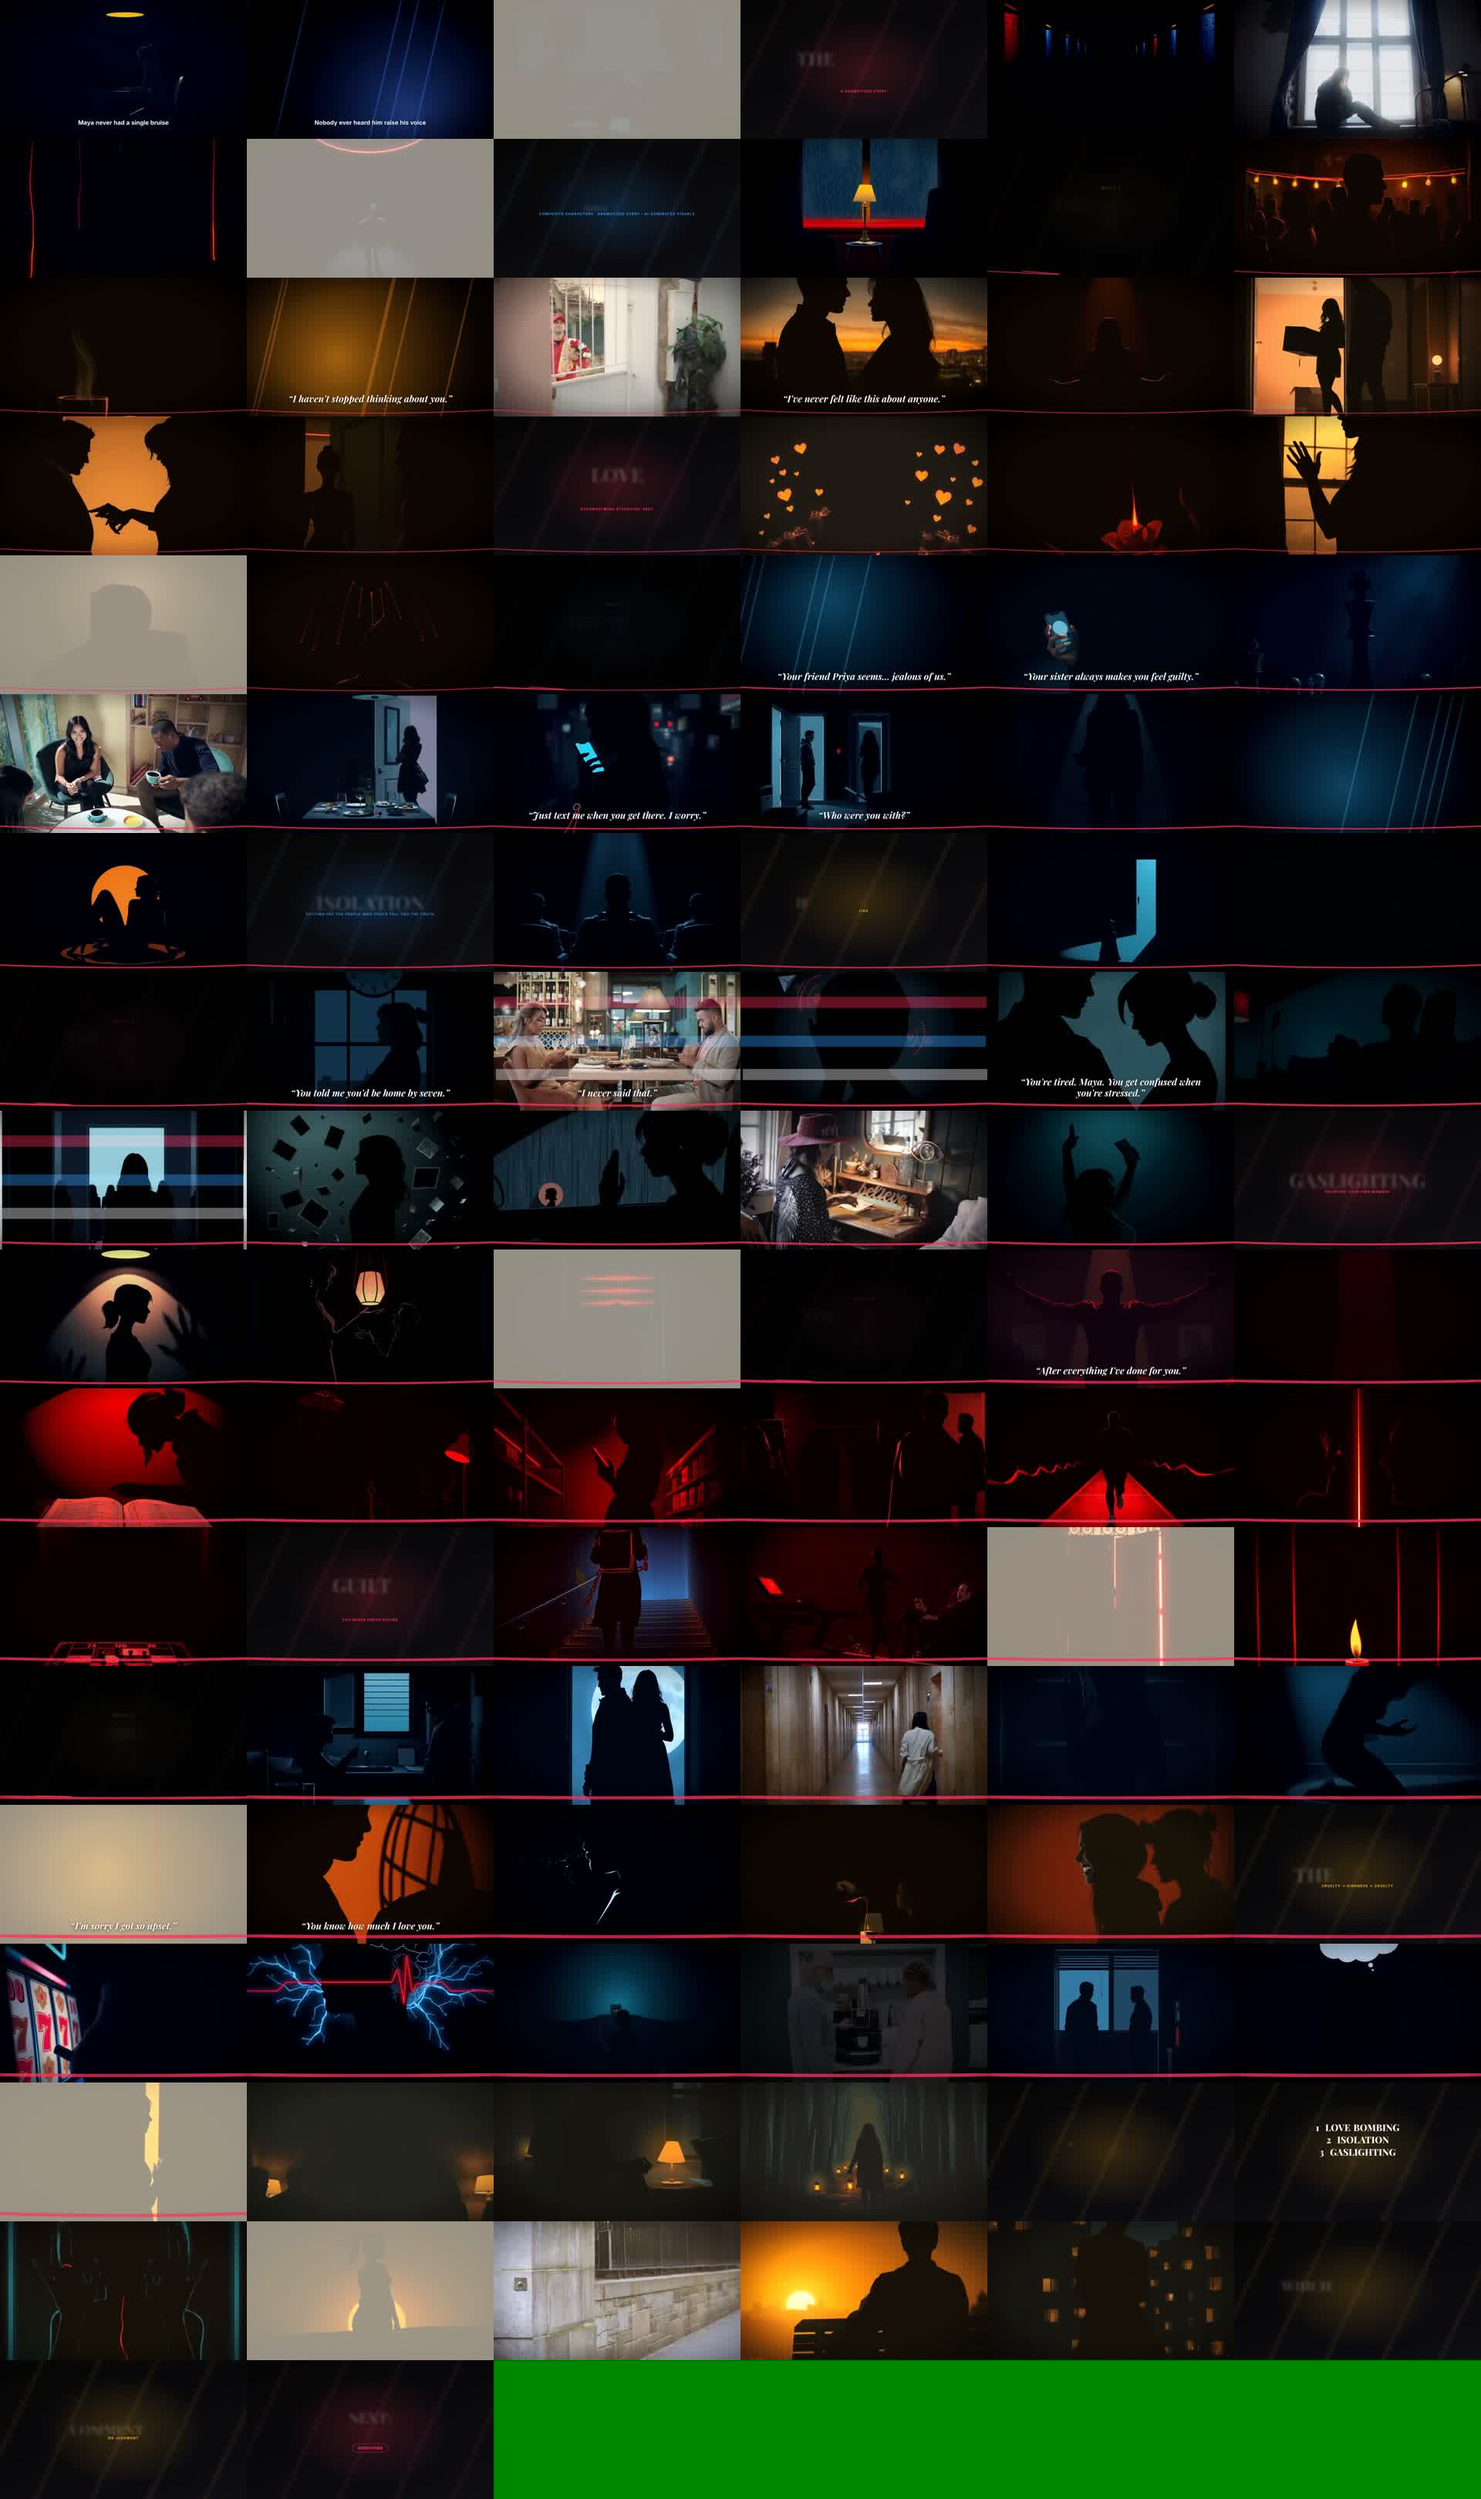
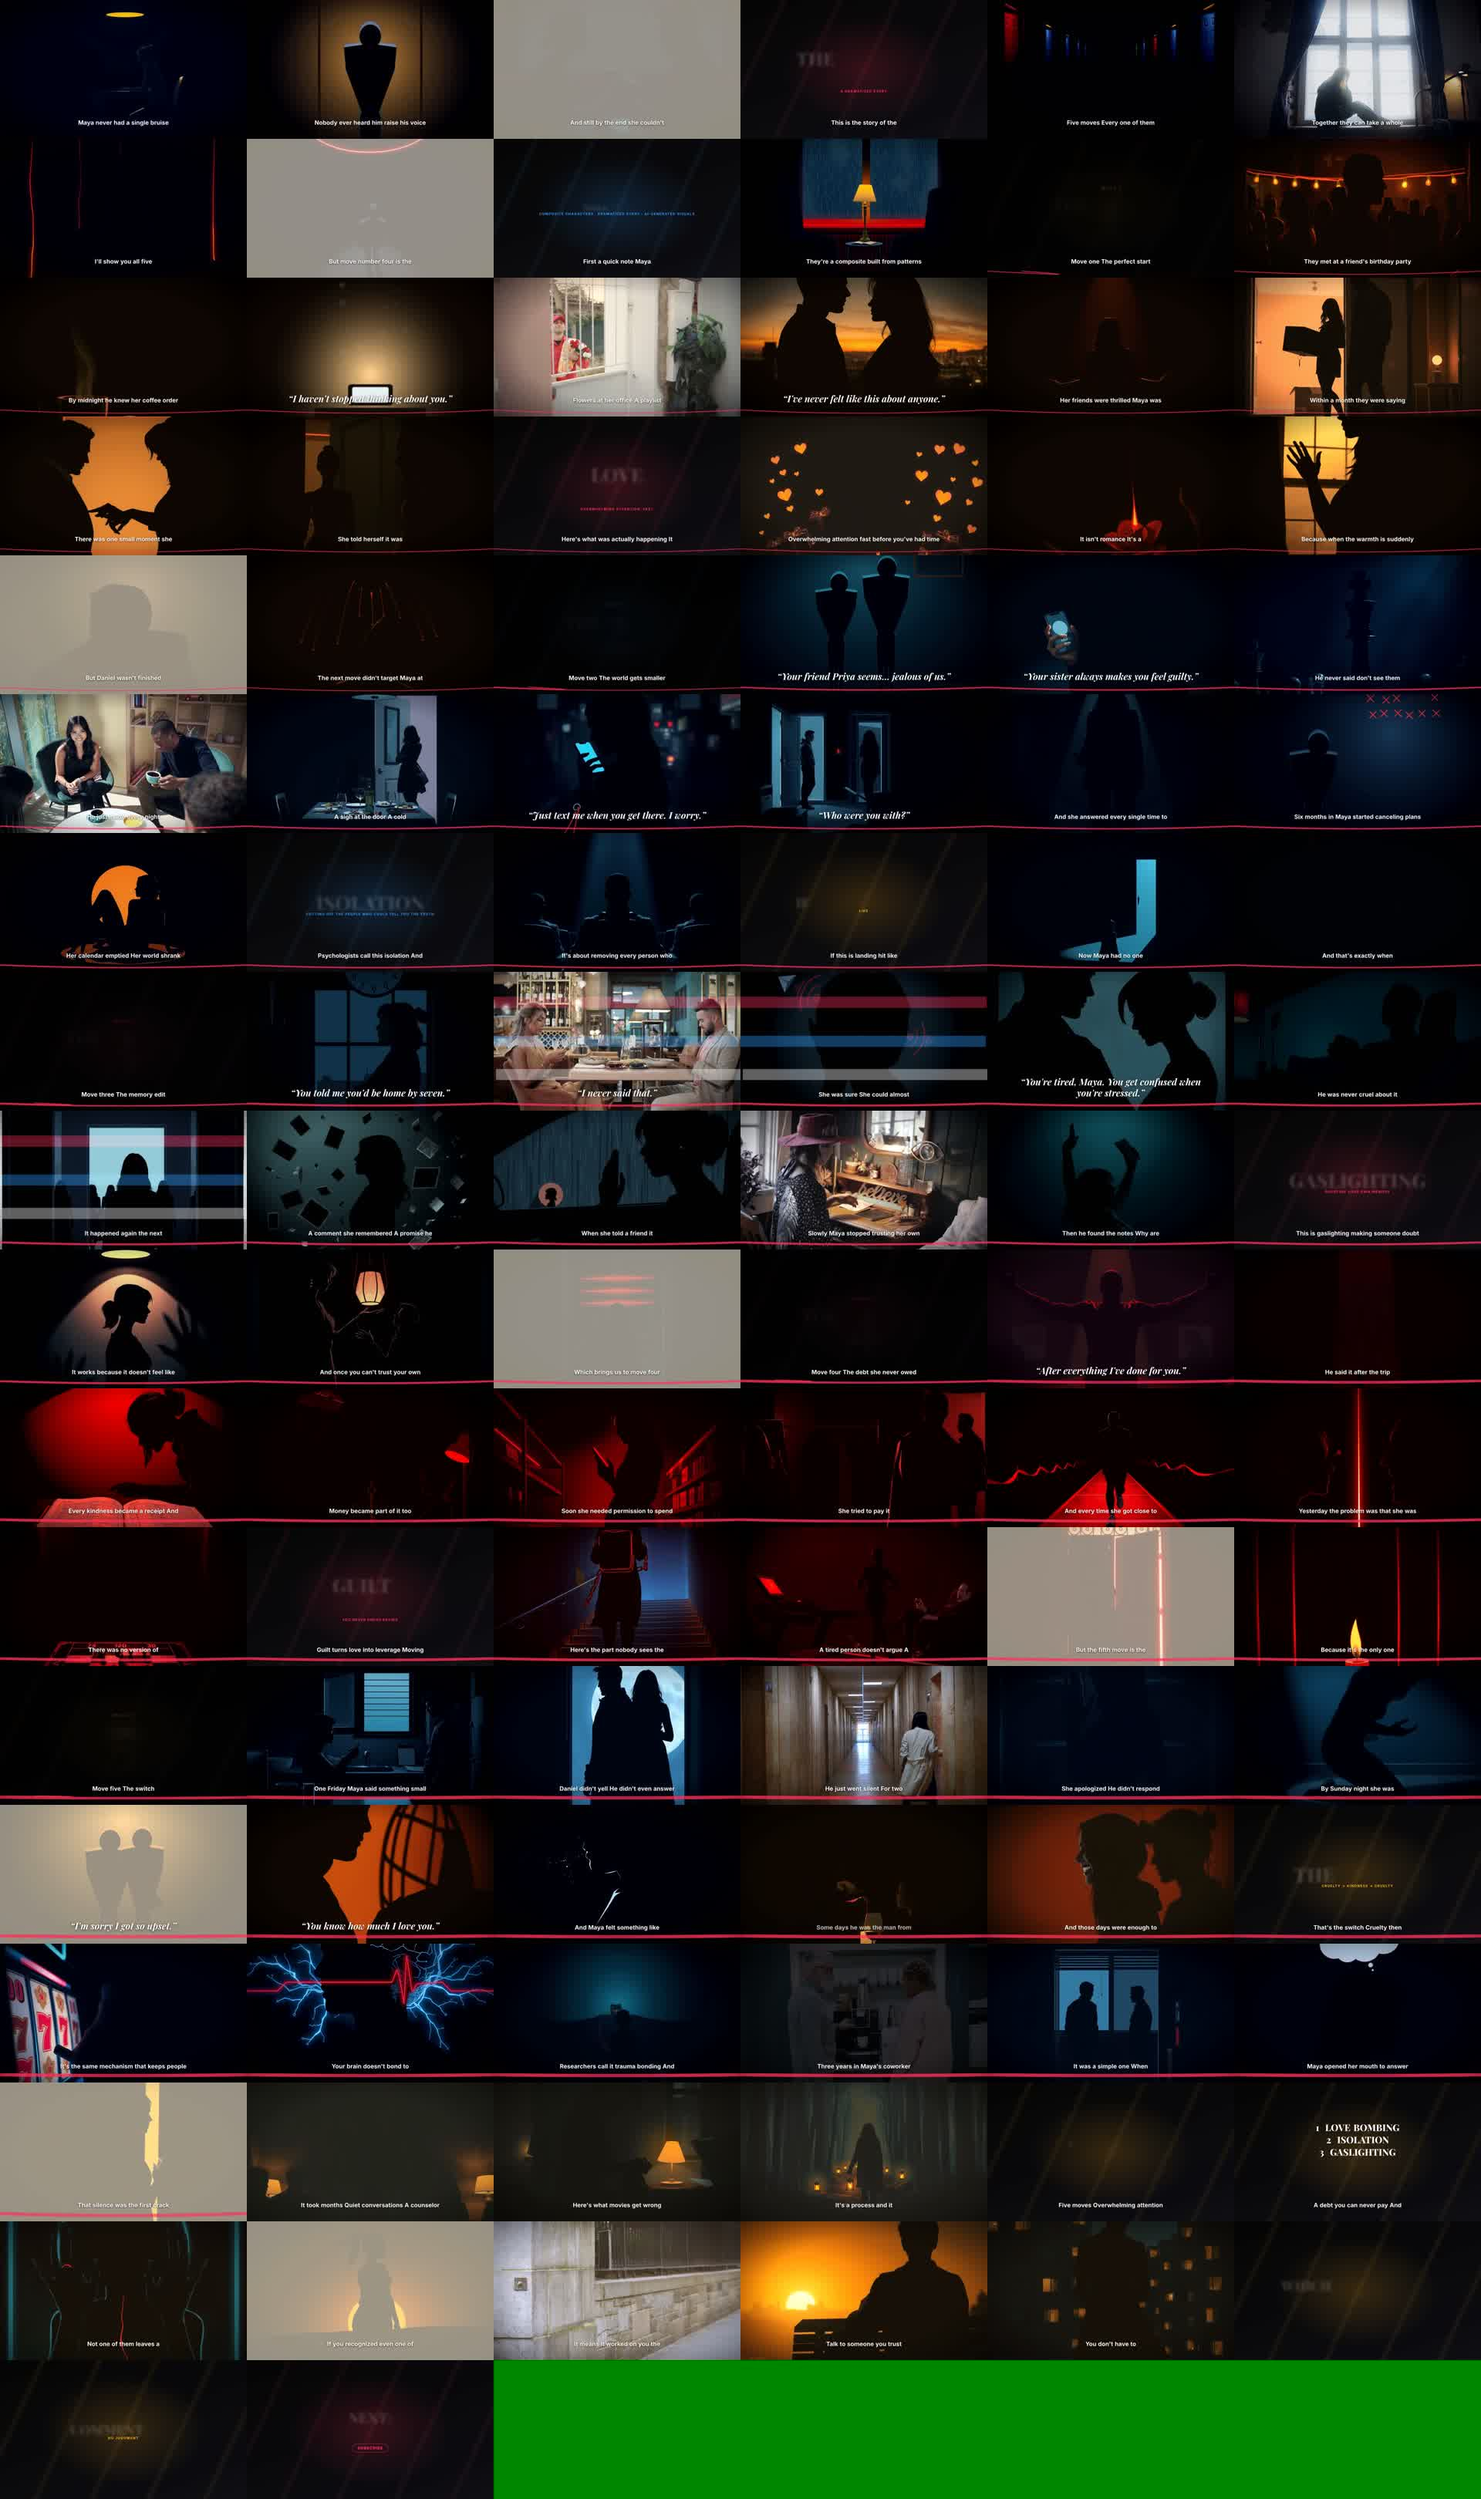
Pack: AUDIT.md actualizado — S002/S014/S028/S036/S079 resueltos (ilustración a mano) y bug real de subtítulos corregido y verificado en el mp4 exportado

diff --git a/content/2026-XX-XX-he-never-raised-his-voice/AUDIT.md b/content/2026-XX-XX-he-never-raised-his-voice/AUDIT.md
@@ -1,9 +1,10 @@
 # AUDIT — "He Never Raised His Voice" (PACK video 01)
 
-Estado: **ENTREGADO** (Paso 9 completo). Quedan gaps conocidos y declarados
-(ver desvíos 8, 10 y R5) — no se ocultó nada, se entregó por decisión
-explícita del usuario ("dale mecha, mandame el video final") priorizando
-tener el video hoy sobre una corrección total del lote de imágenes.
+Estado: **ENTREGADO, 2ª ronda** (arreglo puntual pedido por el usuario:
+S002/S014/S028/S036/S079 ilustradas a mano + bug real de subtítulos
+corregido). Queda un gap conocido y declarado (desvío 8: contorno facial
+leve en parte del lote de imágenes de Cloudflare, no tocado en esta
+ronda) — no se ocultó nada.
 
 ## Desvíos y decisiones (nada se omite en silencio)
 
@@ -61,13 +62,13 @@ tener el video hoy sobre una corrección total del lote de imágenes.
    al bloque de estilo, y regenerar solo esas tomas cuando la cuota de
    Cloudflare resetee — no hace falta rehacer el video entero, alcanza con
    reemplazar esas imágenes y volver a renderizar (Remotion no cachea).
-9. **S079: sin imagen real** — Cloudflare agotó la cuota antes de poder
-   generar la escena reformulada (abrazo de espaldas). Para no dejar la
-   toma en negro, se generó LOCALMENTE (sin red, con PIL, sin ninguna
-   figura humana) un fondo de degradado ámbar/frío que respeta la paleta
-   de la escena. Es un placeholder visible, no una imagen del pack real.
-   Reemplazar cuando la cuota permita generar la escena real.
-10. **[GRAVE, CORREGIDO] S002 y S014 no eran siluetas — eran caras casi
+9. **[RESUELTO] S079** — Cloudflare agotó la cuota antes de poder generar
+   la escena reformulada (abrazo de espaldas). En vez de esperar el reset
+   (00:00 UTC), a pedido del usuario se ILUSTRÓ A MANO con PIL (sin IA,
+   sin red): una silueta doble de espaldas abrazándose, contraluz cálido,
+   mismo estilo gráfico-novela que el resto del video (ver desvío 10 para
+   el detalle técnico — mismo método que S002/S014/S028/S036).
+10. **[RESUELTO] S002 y S014 no eran siluetas — eran caras casi
     fotorrealistas** (piel, ojos, boca con detalle), ignorando por completo
     el bloque de estilo. Encontrado en una revisión más amplia (no la
     muestra de 10, sino una pasada manual de ~30/78 imágenes) hecha DESPUÉS
@@ -76,20 +77,33 @@ tener el video hoy sobre una corrección total del lote de imágenes.
     el video. También se encontraron 2 violaciones de texto legible no
     detectadas antes: **S028** (la palabra "friend" escrita + un retrato
     enmarcado con una cara dibujada con detalle) y **S036** (un calendario
-    con números y texto totalmente legibles). Las 4 (S002, S014, S028,
-    S036) se reemplazaron por fondos abstractos generados LOCALMENTE (PIL,
-    sin red, sin figuras humanas ni texto, con la paleta/grado de cada
-    escena) y se volvió a renderizar solo esos 4 tramos (chunks de
-    `pack_render_por_partes.sh`) antes de la mezcla final. La miniatura B
-    (`THUMB_B.jpg`) tenía el mismo problema (dos perfiles faciales nítidos)
-    — la miniatura final ya usa el fondo de hilo rojo sin figuras (ver
-    Paso 9 en LOG.md).
-    **Lo que SIGUE sin revisar exhaustivamente**: de las 78 imágenes, se
-    revisaron a mano ~30 (no las 78) buscando específicamente casos graves
-    como éste — no hay garantía de que no quede alguna otra imagen
-    fotorrealista o con texto entre las ~48 no revisadas. Lo que SÍ está
-    confirmado y aceptado (desvío 8) es el patrón más leve de contorno
-    facial en perfiles a contraluz (~40-50% de la muestra).
+    con números y texto totalmente legibles).
+    Primer intento: se reemplazaron por fondos abstractos (degradados sin
+    figura). El usuario pidió una solución con más "impacto visual" en vez
+    de esperar el reset de cuota de Cloudflare — se reformularon las 4
+    escenas (mismo criterio que S079: de espaldas, cabeza inclinada, u
+    objeto solo sin figura — nunca perfil mirando la luz, sin
+    carteles/calendarios/retratos con texto) y se ILUSTRARON A MANO con
+    PIL (`scripts/pack_ilustrar_a_mano.py`): siluetas humanas vistas de
+    espaldas dibujadas como un solo polígono con proporciones naturales
+    (cuello, hombros, cintura, piernas), con un borde fino de contraluz
+    (doble trazo: la misma silueta 2.5% más grande en el color de rim
+    light, desenfocada, y encima la silueta negra a tamaño normal) sobre
+    fondos con degradado radial — mismo lenguaje visual que el resto del
+    video (siluetas planas + luz de borde + degradado), sin depender de
+    ninguna IA de imágenes. La miniatura B (`THUMB_B.jpg`) tenía el mismo
+    problema (dos perfiles faciales nítidos) — la miniatura final ya usa
+    el fondo de hilo rojo sin figuras (ver Paso 9 en LOG.md).
+    Las 5 imágenes nuevas (S002, S014, S028, S036, S079) se revisaron a
+    mano contra el checklist (sin rasgos faciales, sin texto/números)
+    antes de re-renderizar — las 5 pasan limpio.
+    **Lo que SIGUE sin revisar exhaustivamente**: de las 78 imágenes IA de
+    Cloudflare, se revisaron a mano ~30 (no las 78) buscando
+    específicamente casos graves como éste — no hay garantía de que no
+    quede alguna otra imagen fotorrealista o con texto entre las ~48 no
+    revisadas. Lo que SÍ está confirmado y aceptado (desvío 8) es el
+    patrón más leve de contorno facial en perfiles a contraluz (~40-50% de
+    la muestra) — eso NO se corrigió, sigue como estaba.
 11. **Bug en pack_qa.py (ebur128)**: la primera corrida del QA reportó
     -70 LUFS (prácticamente silencio), que asustaba pero era un bug de
     MEDICIÓN, no del audio real: `re.search` tomaba la PRIMERA lectura de
@@ -106,6 +120,41 @@ tener el video hoy sobre una corrección total del lote de imágenes.
     qa_report.txt, AUDIT.md, credits.txt, metadata.md, timeline.json,
     shots.json, todo el código de `remotion/src/longform/`) sí están
     commiteados y pusheados.
+13. **[BUG REAL, CORREGIDO] Los subtítulos no aparecían en ningún punto del
+    video salvo en la primera toma (S001)**. El usuario lo detectó
+    revisando el `video_final.mp4` entregado a resolución completa en
+    varios timestamps — R8 decía ✅ pero estaba mal verificado (el still
+    que lo confirmó era justo de S001, el único caso que funcionaba por
+    casualidad). Causa raíz encontrada leyendo el código: `Captions.tsx`
+    vive arriba de todos los `<Sequence>` (no adentro de uno, porque tiene
+    que decidir qué toma está activa mirando el timeline completo), así
+    que su `useCurrentFrame()` es el frame ABSOLUTO de toda la
+    composición. Pero `LongForm.tsx` le pasaba las palabras de la toma
+    activa ya convertidas a tiempo RELATIVO al inicio de esa toma
+    (`palabrasLocal`, restando `t.startS`). Comparar tiempo relativo
+    contra frame absoluto solo coincide en la toma que arranca en el
+    frame 0 (S001) — en cualquier otra toma la ventana de subtítulo activa
+    nunca se encontraba (`franjas.find(...)` siempre `undefined`) y el
+    componente no renderizaba nada. Confirmado ANTES del fix con
+    `npx remotion still --frame=1200` (toma S010, ~40s): sin subtítulo, a
+    pesar de que shots.json/timeline.json sí tienen la toma con
+    `captions:true` y 12 palabras en ese rango. Fix: `Captions` ahora
+    recibe `palabras` y `finTomaS` en tiempo ABSOLUTO directamente desde
+    `timeline.json` (`activa.palabras`, `activa.endS`), sin la conversión
+    intermedia — `LongForm.tsx` y `Captions.tsx`. Verificado DESPUÉS del
+    fix con el mismo still (frame 1200): aparece "that therapists describe
+    again and again", que coincide exacto con la palabra real en ese
+    momento. Vuelto a verificar en el `video_final.mp4` YA EXPORTADO (no
+    un still de Remotion) con `ffmpeg -ss 40 ... -frames:v 1`: el
+    subtítulo se ve correctamente grabado en el video real.
+    Nota relacionada (NO corregida, fuera de lo que pidió el usuario):
+    `Pullquote.tsx` tiene el mismo patrón (`useCurrentFrame()` sin
+    Sequence) pero ahí el síntoma es distinto y menor — usa el frame
+    absoluto directo en un `spring()` de entrada, que converge a 1 en
+    pocos frames sea cual sea el valor de `frame`, así que la cita SÍ se
+    ve, pero pierde la animación de entrada (aparece de golpe en vez de
+    desenfocarse suavemente) en cualquier toma que no sea la primera con
+    pullquote. Queda documentado pero sin tocar.
 12. **blackdetect marca 7 tramos "sospechosos"**: se verificaron 2 al azar
     (9s y 64s) extrayendo el frame real del video_final.mp4 — son escenas
     genuinamente oscuras por diseño (siluetas a contraluz, la estética que
@@ -129,7 +178,7 @@ tener el video hoy sobre una corrección total del lote de imágenes.
 | R5 | Imágenes IA pasan el checklist | ⚠ parcial, mejorado pero no completo | Casos graves (S002,S014,S028,S036) corregidos; contorno facial leve sigue presente en buena parte del lote (desvío 8), aceptado por el usuario |
 | R6 | 8 clips en sus tomas, con grade y credits.txt | ✅ | clips/fit/*.mp4, credits.txt, grade confirmado en still S006 |
 | R7 | 18 placas con entrada animada y fondo animado | ✅ verificado con stills | 8/8 tipos de placa revisados en still (title, note, chapter, concept, cta, list, question, end) |
-| R8 | Subtítulos por frase, sin solapar placas/citas | ✅ verificado con still | still S001: subtítulo + imagen, sin placa/cita simultánea |
+| R8 | Subtítulos por frase, sin solapar placas/citas | ✅ corregido y reverificado | Era ❌ real: bug de tiempo absoluto vs. relativo (desvío 13) hacía que NO se vieran subtítulos salvo en S001. Corregido en Captions.tsx/LongForm.tsx. Verificado en el mp4 exportado (no un still) con ffmpeg en t=40s (toma S010): subtítulo correcto en pantalla |
 | R9 | Hilo rojo por capítulo + corte en la grieta | ✅ presente en todos los stills; snap verificado parcialmente | still S091 (grieta) capturado en pleno flash, no en el frame exacto del corte — no genera dudas sobre la lógica (spec implementada), pero no es una confirmación pixel a pixel del corte |
 | R10 | Movimiento en toda toma IA/clip, sin repetir consecutivos | ✅ (por diseño de datos) | Movimiento.tsx (7 tipos) implementado; shots.json ya viene alternado — no se verificó frame a frame los 104 casos |
 | R11 | Transiciones según JSON, dip entre capítulos | ✅ verificado con stills | flash (S079/S104 area) y transición de capítulo visibles en stills |
